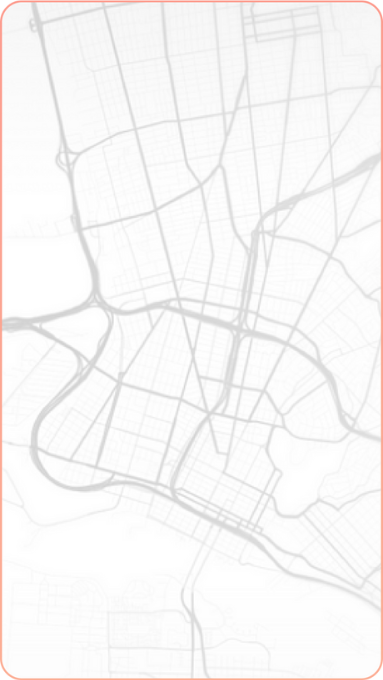
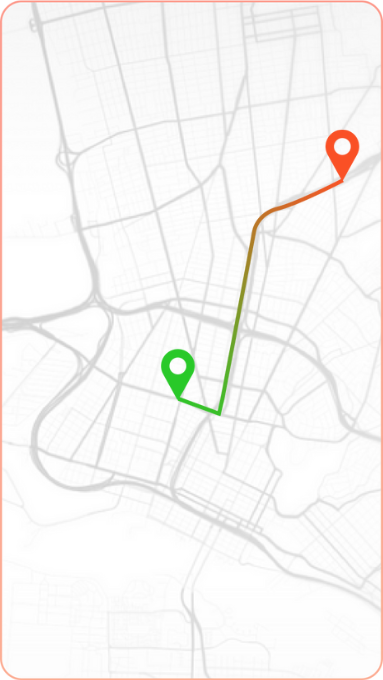
Implemented select courier screen

Changed region(s): [[0.4021, 0.4324, 0.6319, 0.6176], [0.718, 0.1853, 0.9478, 0.3088], [0.6319, 0.3088, 0.718, 0.4324]]

diff --git a/lib/screens/select_courier_screen/select_courier_screen.dart b/lib/screens/select_courier_screen/select_courier_screen.dart
@@ -1,0 +1,139 @@
+import 'package:flutter/material.dart';
+import 'package:repsoft_assignment_app/constants/assets.dart';
+import 'package:repsoft_assignment_app/screens/select_courier_screen/widgets/location_selector.dart';
+import 'package:repsoft_assignment_app/screens/select_courier_screen/widgets/location_status_indicator.dart';
+import 'package:repsoft_assignment_app/screens/sign_in_screen/widgets/sign_in_widgets.dart';
+import 'package:repsoft_assignment_app/utils/app_colors.dart';
+import 'package:repsoft_assignment_app/utils/app_text_styles.dart';
+
+class SelectCourierScreen extends StatelessWidget {
+  const SelectCourierScreen({super.key});
+
+  @override
+  Widget build(BuildContext context) {
+    return Scaffold(
+      backgroundColor: Colors.white,
+      appBar: AppBar(
+        backgroundColor: Colors.white,
+        title: Text(
+          'Select Courier',
+          style: AppTextStyles.supermercadoOneTextStyle(
+              color: AppColors.greyTextColor,
+              fontWeight: FontWeight.w400,
+              fontSize: 25),
+        ),
+        centerTitle: true,
+        actions: [
+          IconButton(
+              onPressed: () {},
+              icon: const Icon(
+                Icons.search,
+                color: AppColors.greyTextColor,
+              ))
+        ],
+      ),
+      body: SafeArea(
+          //Base-Container
+          child: Container(
+        width: double.maxFinite,
+        height: double.maxFinite,
+        padding: const EdgeInsets.symmetric(horizontal: 10, vertical: 30),
+        child: Stack(
+          children: [
+            //Image-container-stack
+            Stack(
+              children: [
+                Container(
+                  width: double.maxFinite,
+                  height: MediaQuery.sizeOf(context).height * 0.7,
+                  decoration: const BoxDecoration(
+                    image: DecorationImage(
+                        image: AssetImage(
+                          Assets.mapBgImage,
+                        ),
+                        fit: BoxFit.fill),
+                  ),
+                ),
+                Positioned(
+                  bottom: 35,
+                  left: MediaQuery.sizeOf(context).width * 0.075,
+                  child: Material(
+                    color: Colors.white,
+                    elevation: 10,
+                    borderRadius: BorderRadius.circular(20),
+                    child: Container(
+                      width: MediaQuery.sizeOf(context).width * 0.7,
+                      margin: const EdgeInsets.all(20),
+                      height: 171,
+                      decoration: BoxDecoration(
+                        color: Colors.white,
+                        borderRadius: BorderRadius.circular(20),
+                      ),
+                      child: Column(
+                        crossAxisAlignment: CrossAxisAlignment.start,
+                        children: [
+                          Text(
+                            'Where is it going?',
+                            style: AppTextStyles.supermercadoOneTextStyle(
+                                color: const Color(0xff424242),
+                                fontSize: 22,
+                                fontWeight: FontWeight.w400),
+                          ),
+                          const SizedBox(
+                            height: 20,
+                          ),
+
+                          //Location Status widget
+                          Row(
+                            children: [
+                              const LocationStatusIndicator(),
+                              const SizedBox(
+                                width: 10,
+                              ),
+                              Column(
+                                mainAxisAlignment: MainAxisAlignment.start,
+                                children: [
+                                  LocationSelector(
+                                    label: 'Current location',
+                                    labelStyle:
+                                        AppTextStyles.ttChocolateTextStyle(
+                                            color: AppColors.darkGreenIconColor,
+                                            fontWeight: FontWeight.w500,
+                                            fontSize: 15),
+                                  ),
+                                  const SizedBox(
+                                    height: 15,
+                                  ),
+                                  LocationSelector(
+                                    label: 'Choose recipients location',
+                                    labelStyle:
+                                        AppTextStyles.ttChocolateTextStyle(
+                                            color: const Color(0xff7D7D7D),
+                                            fontWeight: FontWeight.w500,
+                                            fontSize: 15),
+                                  ),
+                                ],
+                              )
+                            ],
+                          )
+                        ],
+                      ),
+                    ),
+                  ),
+                ),
+              ],
+            ),
+            //Bottom-button
+            Positioned(
+              bottom: MediaQuery.sizeOf(context).height * 0.08,
+              left: 0,
+              right: 0,
+              child: AuthenticationButton(
+                  label: 'Continue', onTap: () {}, isLoading: false),
+            )
+          ],
+        ),
+      )),
+    );
+  }
+}

diff --git a/lib/screens/select_courier_screen/widgets/location_status_indicator.dart b/lib/screens/select_courier_screen/widgets/location_status_indicator.dart
@@ -1,0 +1,77 @@
+import 'package:flutter/material.dart';
+
+class LocationStatusIndicator extends StatelessWidget {
+  const LocationStatusIndicator({
+    super.key,
+  });
+
+  @override
+  Widget build(BuildContext context) {
+    return SizedBox(
+      child: Column(
+        children: [
+          getCirularContainer(color: const Color(0xff28C928)),
+          const VerticalDashedLine(
+            height: 50,
+          ),
+          getCirularContainer(color: const Color(0xffFA5025))
+        ],
+      ),
+    );
+  }
+
+  Container getCirularContainer({required Color color}) {
+    return Container(
+      width: 15.4,
+      height: 15.4,
+      decoration: BoxDecoration(
+        color: Colors.white,
+        shape: BoxShape.circle,
+        border: Border.all(
+          color: color,
+          width: 1.0,
+        ),
+      ),
+    );
+  }
+}
+
+class VerticalDashedLine extends StatelessWidget {
+  const VerticalDashedLine({super.key, required this.height});
+
+  final double height;
+  @override
+  Widget build(BuildContext context) {
+    return SizedBox(
+      height: height,
+      child: CustomPaint(
+        painter: _VerticalDashedLinePainter(),
+      ),
+    );
+  }
+}
+
+class _VerticalDashedLinePainter extends CustomPainter {
+  @override
+  void paint(Canvas canvas, Size size) {
+    double dashHeight = 4, dashSpace = 2;
+    final paint = Paint()
+      ..color = Colors.black
+      ..style = PaintingStyle.stroke;
+
+    double startY = 0;
+    while (startY < size.height) {
+      canvas.drawLine(
+        Offset(0, startY),
+        Offset(0, startY + dashHeight),
+        paint,
+      );
+      startY += dashHeight + dashSpace;
+    }
+  }
+
+  @override
+  bool shouldRepaint(covariant CustomPainter oldDelegate) {
+    return false;
+  }
+}

diff --git a/lib/main.dart b/lib/main.dart
@@ -1,9 +1,15 @@
+import 'package:device_preview/device_preview.dart';
 import 'package:flutter/material.dart';
+import 'package:repsoft_assignment_app/screens/select_courier_screen/select_courier_screen.dart';
 import 'package:repsoft_assignment_app/screens/sign_in_screen/sign_in_screen.dart';
-import 'package:repsoft_assignment_app/screens/sign_up_screen/sign_up_screen.dart';
 
 void main() {
-  runApp(const MyApp());
+  runApp(DevicePreview(
+    enabled: false,
+    builder: (context) {
+      return const MyApp();
+    }
+  ));
 }
 
 class MyApp extends StatelessWidget {
@@ -13,12 +19,13 @@ class MyApp extends StatelessWidget {
   @override
   Widget build(BuildContext context) {
     return MaterialApp(
+      builder: DevicePreview.appBuilder,
       title: 'Repsoft Assignment App',
       theme: ThemeData(
         colorScheme: ColorScheme.fromSeed(seedColor: const Color(0xffFF6B17)),
         useMaterial3: true,
       ),
-      home: SignInScreen(),
+      home: SelectCourierScreen(),
     );
   }
 }

diff --git a/lib/screens/select_courier_screen/widgets/location_selector.dart b/lib/screens/select_courier_screen/widgets/location_selector.dart
@@ -1,0 +1,33 @@
+
+import 'package:flutter/material.dart';
+
+class LocationSelector extends StatelessWidget {
+  const LocationSelector({
+    super.key,
+    required this.label,
+    required this.labelStyle,
+  });
+  final String label;
+  final TextStyle labelStyle;
+
+  @override
+  Widget build(BuildContext context) {
+    return Container(
+      width: MediaQuery.sizeOf(context).width * 0.6,
+      height: 38,
+      padding: const EdgeInsets.symmetric(horizontal: 7),
+      decoration: BoxDecoration(
+          color: const Color(0xffE6FFE8),
+          borderRadius: BorderRadius.circular(7)),
+      child: Row(
+        mainAxisSize: MainAxisSize.max,
+        children: [
+          Text(
+            label,
+            style: labelStyle,
+          ),
+        ],
+      ),
+    );
+  }
+}

diff --git a/macos/Flutter/GeneratedPluginRegistrant.swift b/macos/Flutter/GeneratedPluginRegistrant.swift
@@ -6,7 +6,9 @@ import FlutterMacOS
 import Foundation
 
 import path_provider_foundation
+import shared_preferences_foundation
 
 func RegisterGeneratedPlugins(registry: FlutterPluginRegistry) {
   PathProviderPlugin.register(with: registry.registrar(forPlugin: "PathProviderPlugin"))
+  SharedPreferencesPlugin.register(with: registry.registrar(forPlugin: "SharedPreferencesPlugin"))
 }

diff --git a/lib/constants/assets.dart b/lib/constants/assets.dart
@@ -2,4 +2,6 @@ class Assets {
   static const signInImage = 'assets/images/sign_in_image.png';
   static const cameraImage = 'assets/images/camera_image.png';
   static const mapBgImage = 'assets/images/map_bg_image.png';
+  static const locationIndicatorImage =
+      'assets/images/location_indicator_image.png';
 }
